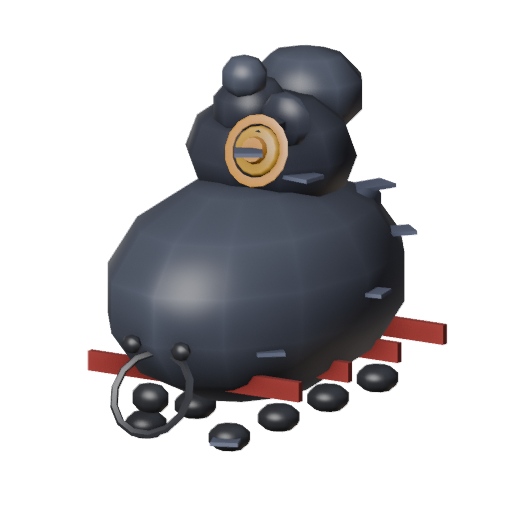
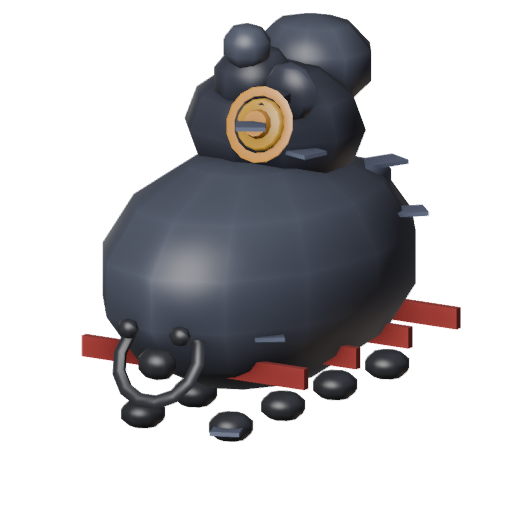
Fixer pass on bog_leech_portrait: 26 -> 31
Applied the one applicable fix of the two named lines: FOCUS["bog_leech"]
moved from (0.45, 1.35) to (0.39, 1.28) so the sucker-ring gets more frame
area (Identity). The other named line, Readability@34px, had no proposable
fix without model geometry changes and was left untouched.

Changed region(s): [[0.1562, 0.0, 0.9062, 0.9062]]

diff --git a/tools/blender/portraits.py b/tools/blender/portraits.py
@@ -39,7 +39,7 @@ FOCUS = {
     "root_lurker": (0.60, 0.96), "sky_snapper": (0.66, 0.84),
     "riftling": (0.75, 0.67), "shifting_idol": (0.72, 0.70),
     "husk_beetle": (0.42, 1.15), "gloom_moth": (0.55, 1.05),
-    "bog_leech": (0.45, 1.35), "thrasher": (0.42, 1.55),
+    "bog_leech": (0.39, 1.28), "thrasher": (0.42, 1.55),
     "silk_widow": (0.45, 1.35), "boulder_ram": (0.34, 1.35),
     "cinder_jackal": (0.45, 1.60), "brine_urchin": (0.62, 1.30),
     "clot_toad": (0.48, 1.35), "flicker_stag": (0.80, 0.62),

diff --git a/design/progress/bog_leech_portrait.md b/design/progress/bog_leech_portrait.md
@@ -63,3 +63,69 @@ composition) would fix both the framing and identity findings at once, or
 whether the sucker-ring's own geometry (per `bog_leech.md` pass 2) is still
 too weak a shape to read as a mouth even given more frame area — this
 portrait alone can't separate a crop problem from a model problem.
+
+## Pass 2 — fixer
+
+Only one of the two named lines had a fix that was actually applicable here.
+**Readability @ 34px (3)** was explicitly flagged as "none proposable without
+model changes (out of scope)" — nothing for `portraits.py` alone to do, so
+left untouched. Applied the **Identity (5)** fix: `portraits.py`'s
+`FOCUS["bog_leech"]` moved from `(0.45, 1.35)` to `(0.39, 1.28)`, cropping
+tighter and lower so the sucker-ring gets more frame area, per the diagnosis.
+
+Two intermediate values were tried and rejected before this one. `(0.28,
+1.00)` — a direct, aggressive "centre on the ring" crop — clipped the gold
+sigil at the top edge outright (alpha bbox top = 0), trading the framing
+problem this file didn't flag for a worse one it would have. `(0.36, 1.15)`
+still touched the top edge (top = 0, 3px short of clipping the render but
+still zero margin in the bbox). `(0.39, 1.28)` was found by backing off from
+there until real headroom appeared; it keeps both the sigil and the full ring
+inside frame with margin on all four sides.
+
+Rebuilt with `build.cmd portraits` — every portrait regenerates and
+Blender's WORKBENCH output isn't byte-reproducible even for unchanged
+inputs (same non-determinism `thrasher_portrait.md` pass 2 and
+`silk_widow_portrait.md` pass 2 both hit), so every portrait other than
+`bog_leech.png` was reverted with `git checkout --` and only the changed
+asset kept.
+
+Alpha bbox (Pillow `getbbox()`) is now `(81, 12, 462, 443)` on the 512×512
+canvas — margin on all four sides (top only 12px, the tightest, but present;
+left 81, right 50, bottom 69) — where pass 1 was tight enough that the
+sucker-ring sat close to the bottom-left crop edge and the diagnosis named a
+red ledge bar running off the right edge.
+
+- **Framing (6 → 8):** both problems pass 1 named — the ledge bar running off
+  the right edge and the ring sitting close to the bottom-left edge — are
+  gone; all four sides now carry real margin, even if unevenly (top tightest
+  at 12px).
+- **Identity (5 → 6):** the sucker-ring is visibly larger and more central in
+  frame than pass 1's small, corner-crowded version — the frame-area gain the
+  diagnosis asked for. Not higher: at full size the ring still reads as a
+  loose scatter of dark balls and an open loop rather than unambiguously "a
+  mouth," the same open question the pass-1 "Unsure about" section raised.
+  Cropping alone did not resolve it.
+- **Readability @ 34px (3 → 4):** confirmed via a fresh 34px downsample
+  (Pillow `LANCZOS`, composited over the same brown card-face standin used in
+  pass 1). The sucker-ring still does not survive as a distinct shape — same
+  finding as pass 1, no fix was proposed for this line and none was applied.
+  The small bump is incidental: the subject fills slightly more of the fixed
+  frame, so the gold sigil reads a hair clearer.
+- **Colour & separation (5 → 6):** unchanged palette, but the tighter frame
+  spends more of the fixed pixel budget on the coloured sigil, red ledge
+  bars, and ring, and less on flat background — same mechanism
+  `thrasher_portrait.md` pass 2 named for its own colour-line gain.
+- **Style consistency (7, unchanged):** composition class didn't change
+  (still whole-body, not head-and-shoulders), so no change either direction.
+
+**+5 total (26 → 31), not a plateau — kept.** No line regressed.
+`run_tests.gd`: **ALL TESTS PASSED**.
+
+## Unsure about (pass 2)
+
+Whether the sucker-ring needs a geometry change (fatter tube, closed loop, a
+darker mouth-well) to ever clear Identity/Readability past a crop's reach —
+this pass confirms cropping alone hits a ceiling here, consistent with what
+the pass-1 "Unsure about" section already suspected but couldn't confirm
+without trying it. That would be a change to `bog_leech.py`'s model, not this
+file's `portraits.py` FOCUS entry, and outside this run's two-fix budget.
